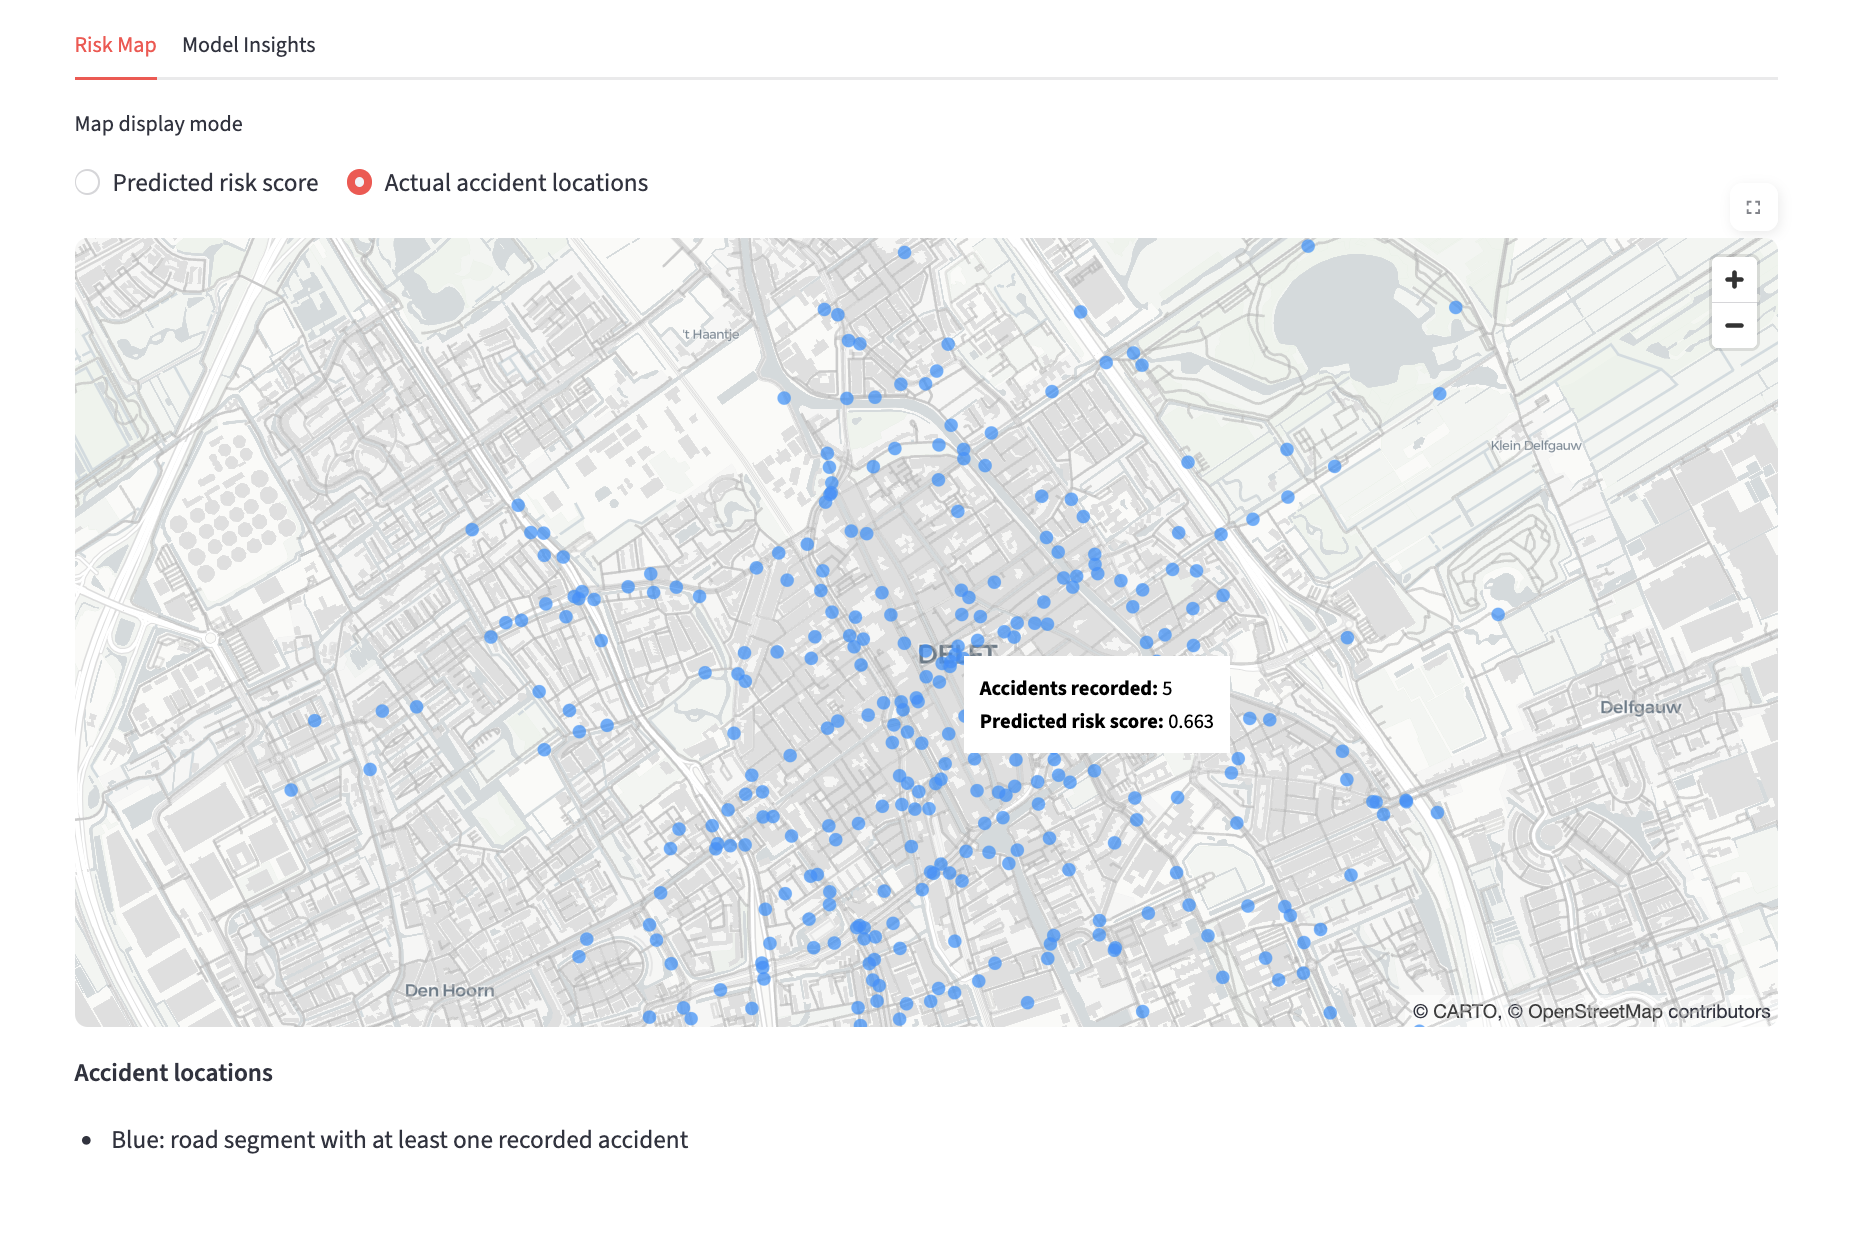
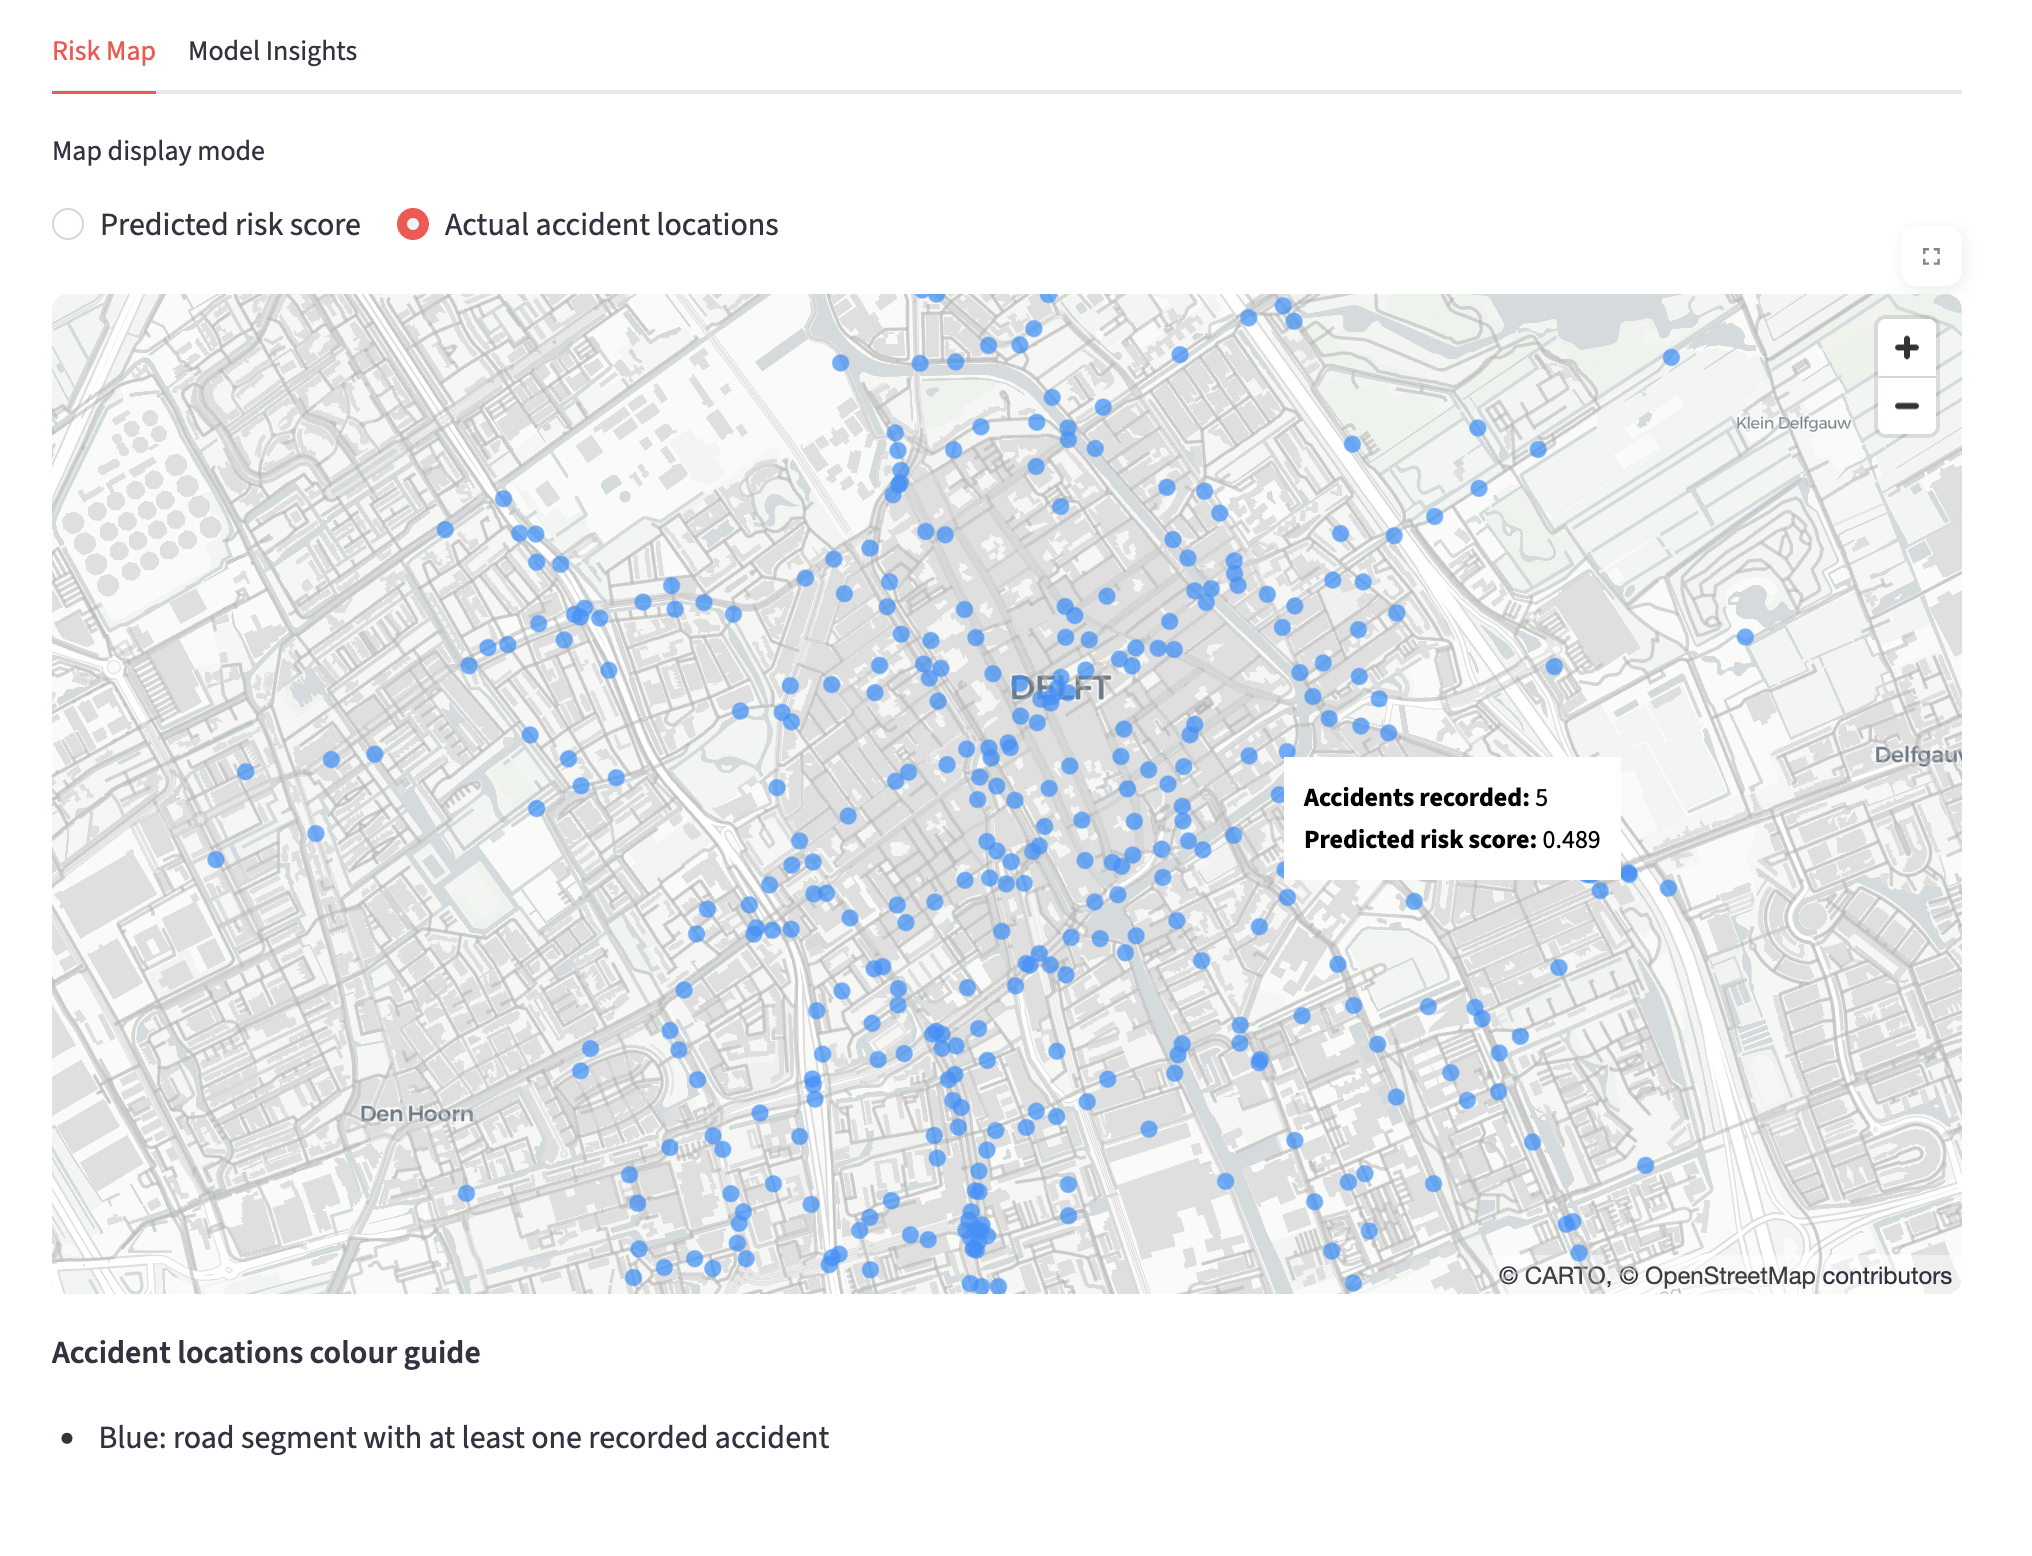
cleaned readme, todo: key findings & results

Changed region(s): [[0.0, 0.1866, 0.9849, 0.933], [0.0308, 0.0933, 0.3693, 0.1555], [0.0308, 0.0311, 0.1847, 0.0622]]

diff --git a/app/app.py b/app/app.py
@@ -308,7 +308,7 @@ with tab1:
         """)
     else:
         st.markdown("""
-        **Accident locations**
+        **Accident locations colour guide**
         - Blue: road segment with at least one recorded accident
         """)
 

diff --git a/README.md b/README.md
@@ -11,18 +11,19 @@ I developed an end-to-end ML pipeline to analyse the risk of bike accidents in D
 The dashboard is fully interactive, allowing users to filter road segments by type and explore high-risk areas based on a minimum risk score and accident count.
 
 ![CycloSafe Dashboard Interface](app/assets/cyclosafe_dashboard.png)
-*Figure 1: The dynamic CycloSafe dashboard, designed to help users explore and filter predicted collision risks on the streets of Delft*
+*Figure 1: The dynamic CycloSafe dashboard is designed to help users explore and filter predicted collision risks on the streets of Delft.*
 
 ![CycloSafe Map of Actual Accidents](app/assets/cyclosafe_dashboard_accidents.png)
-*Figure 2: The CycloSafe Actual Accidents Map shows the collision locations across the road network. Hovering over a specific data point reveals more information on the risk score and the amount of accidents that occured*
+*Figure 2: The CycloSafe Actual Accidents Map shows the collision locations across the road network. Hovering over a specific data point reveals more information on the risk score and the amount of accidents that occured.*
 
 ## Key findings
 
-## Results
+*to do: add general findings and thoughts*
 
-## Temp notes on plots
- 
+### Temp (!) notes on plots
 ### feature importance plot
+
+![Feature Importance - Top 15 feature importances](plots/feature_importance.png)
 
 Findings:
 - highway_cycleway at 0.075: very counterintuitive, I would have expected cycling infrastructure to reduce risk, not predict it, but maybe this is because they have more cyclists and therefore more accidents, this comes from the data limitation introduced by BRON as BRON records accidents but not cyclist volume, so high-use infrastructure looks risky even when it is well designed
@@ -36,6 +37,8 @@ It explains why F1 is 0.027. In a dataset where features strongly separate class
 
 
 ### shap plot
+
+![SHAP Summary: Feature Impact on High-Risk Prediction](plots/shap_summary.png)
 
 Even though model prediction is not that good and F1 score is very low, I still used the SHAP plot. SHAP does not evaluate whether the model is accurate, but it explains what the model learned from the data it had. 
 
@@ -53,6 +56,10 @@ Findings:
 - highway_tertiary has strongest positve val (0.15), signals strongest risk push, maybe because moderate speed with cars and bikes mixed -> dangerous
 - highway_service has widest overall spread -> affects more segments than any other feature, but per-segment influence is weak
 - violet dots in maxspeed: segments have medium speed limit, neither highest nor lowest in dataset -> present but maybe unreliable 
+
+## Results
+
+ *to do: add and discuss results*
 
 ## Tech Stack 
 I built this project using a Python-based geospatial and ML stack: